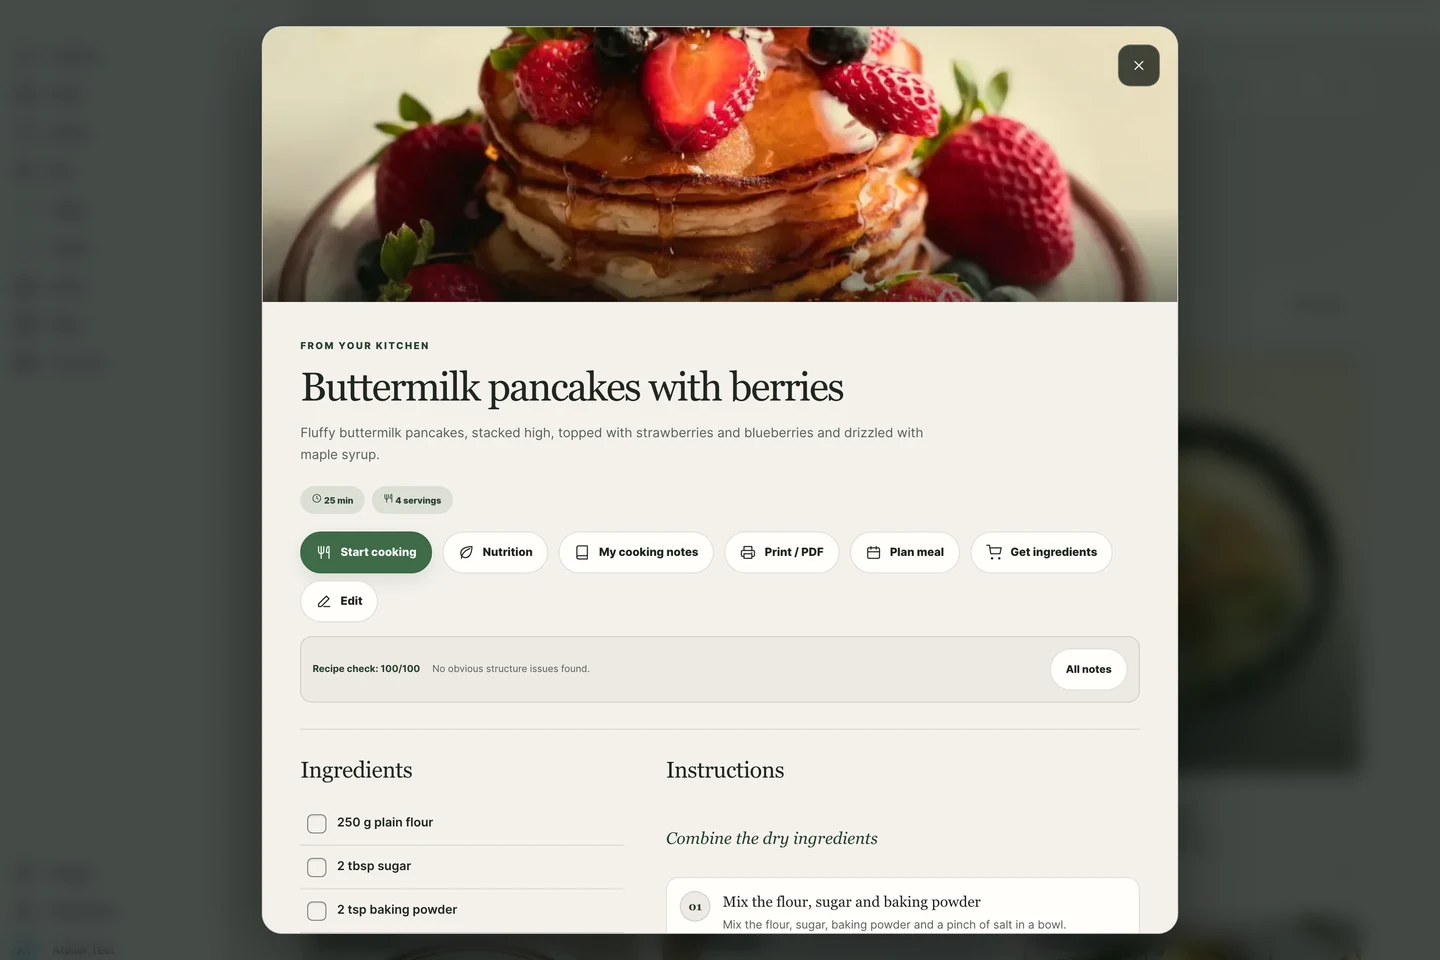
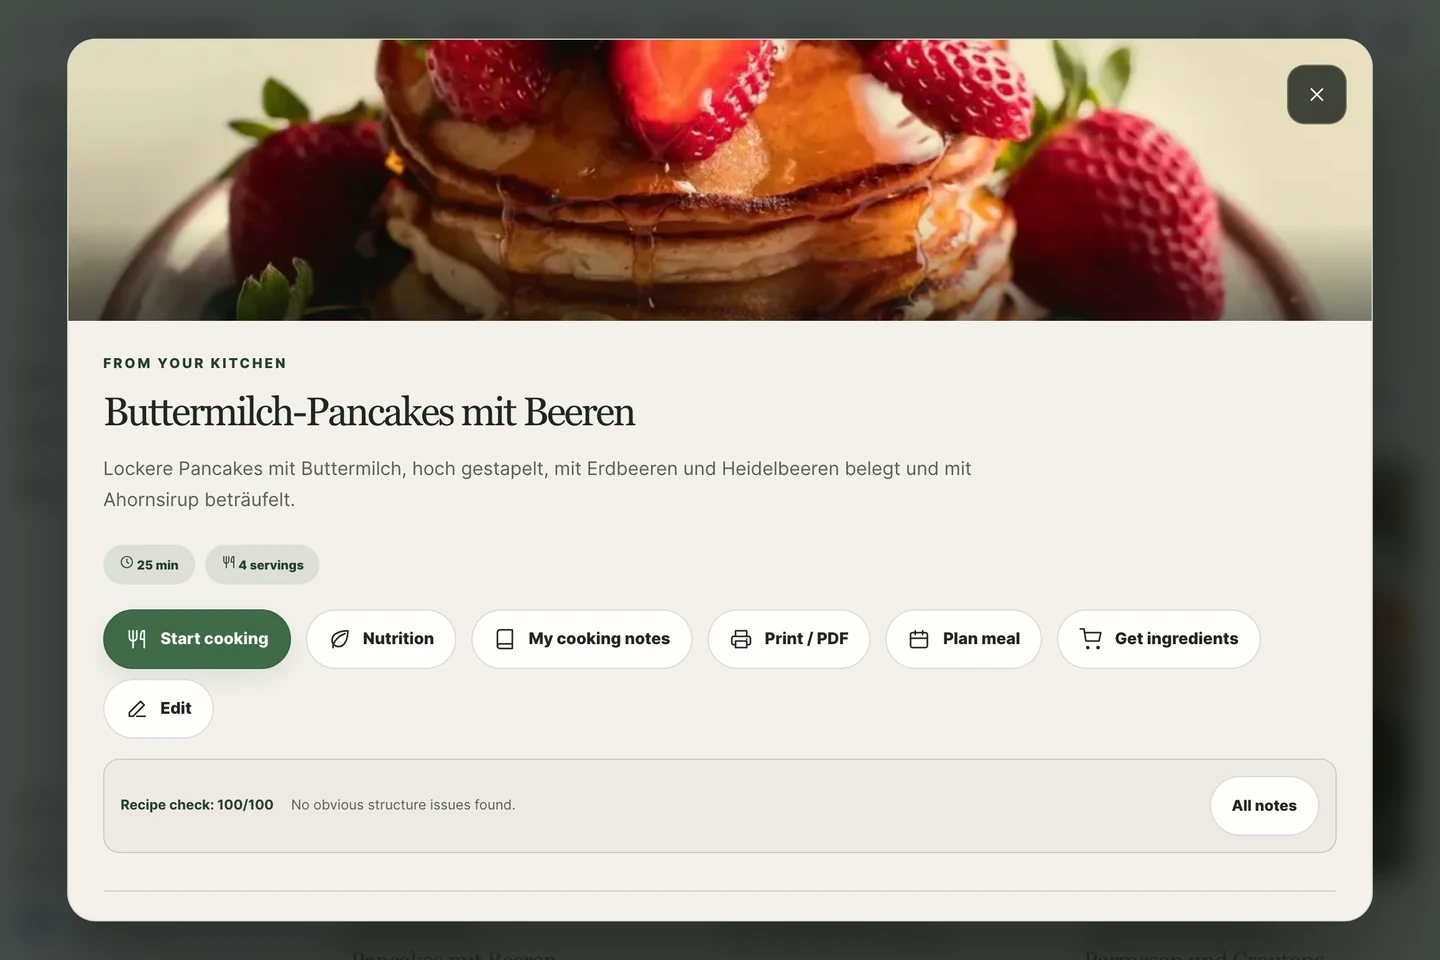
Recapture the recipe and phone cooking README shots without sliced cards or overlap

diff --git a/scripts/capture-readme-shots.py b/scripts/capture-readme-shots.py
@@ -195,26 +195,25 @@ CUTS = """(modal, withBar, margin = 14, tolerance = 0, ingredientsClean = true) 
 }"""
 
 
-CLIP: dict | None = None
-
-
 def fit_recipe_top(page) -> None:
-    """Show the recipe dialog near its top (photo, name, actions) with the product's own layout.
+    """Show the recipe dialog from its top (photo, name, actions) with the product's own layout.
 
-    The dialog keeps its stylesheet max-height (it stops growing at 1040 px). The viewport is made just tall enough
-    for that, the shot is cropped around the centred dialog back to the published aspect, and the dialog is scrolled
-    by the fewest pixels that put its bottom edge between two rows (as a reader would scroll it).
+    The dialog is never scrolled, so the photo stays whole. The viewport is shortened (the width follows, same
+    aspect as the published 1440 x 960) until the dialog's bottom edge falls between two rows: no ingredient row
+    or step card is sliced mid-text, the lists simply continue below the edge.
     """
-    global CLIP
     modal = page.locator(".modal >> visible=true").first
-    tall = 1140
-    page.set_viewport_size({"width": DESKTOP["width"], "height": tall})
-    page.wait_for_timeout(400)
-    # From the top, as the dialog opens: the photo stays whole, the lists continue below the dialog edge.
     modal.evaluate("m => { m.style.transition = 'none'; m.scrollTop = 0; }")
-    CLIP = {"x": 0, "y": (tall - DESKTOP["height"]) // 2, "width": DESKTOP["width"], "height": DESKTOP["height"]}
-    page.mouse.move(2, 2)
-    page.wait_for_timeout(600)
+    for height in range(DESKTOP["height"], DESKTOP["height"] - 400, -2):
+        page.set_viewport_size({"width": round(height * DESKTOP["width"] / DESKTOP["height"]), "height": height})
+        page.wait_for_timeout(250)
+        modal.evaluate("m => { m.style.transition = 'none'; m.scrollTop = 0; }")
+        if modal.evaluate(CUTS, True) == 0:
+            print("recipe viewport height", height)
+            page.mouse.move(2, 2)
+            page.wait_for_timeout(600)
+            return
+    raise SystemExit("no viewport height whose dialog bottom edge falls between two rows")
 
 
 FIT_NAV = """(nav) => {
@@ -332,9 +331,7 @@ def fit_desktop_viewport(page, check) -> None:
 
 
 def shot(page, tmp: Path) -> Path:
-    global CLIP
-    page.screenshot(path=str(tmp), clip=CLIP) if CLIP else page.screenshot(path=str(tmp))
-    CLIP = None
+    page.screenshot(path=str(tmp))
     return tmp
 
 
@@ -402,7 +399,7 @@ def main() -> None:
                     modal = page.locator(".modal >> visible=true").first
                     if step == "cook":
                         start_cooking(page)
-                        modal.evaluate("m => { m.scrollTop = 0; }")
+                        scroll_cook_dialog(page)
                     else:
                         modal.evaluate("m => { m.scrollTop = 0; }")
                         fit_phone_viewport(page, lambda: modal.evaluate(CUTS, False))

diff --git a/CHANGELOG.md b/CHANGELOG.md
@@ -4,6 +4,13 @@ All notable changes to Mealie Atelier Cards, the standalone web app and the demo
 
 ## [Unreleased]
 
+### Fixed
+
+- Web app: the app icons, favicon, touch icon, notification badge and the install dialog mark now show the herb leaf Week Dial like the logo inside the app and the demo site, instead of the old browser window glyph.
+- Demo site: the 404 page swaps its header, footer and language switch to the language of the URL below `/en/` or `/de/` and marks it as current. On any other path it stays neutral, German first with English beside it.
+- Install docs: the FAQ names where the Marketplace is (**Settings → Marketplace**, route `/marketplace/browse`).
+- README screenshots: the recipe dialog shot ends between two rows instead of slicing a step card, and the phone cooking shot shows the tools panel and the timer clear of the Back and Next bar.
+
 ## [0.11.0] - 2026-10-30
 
 ### Added
